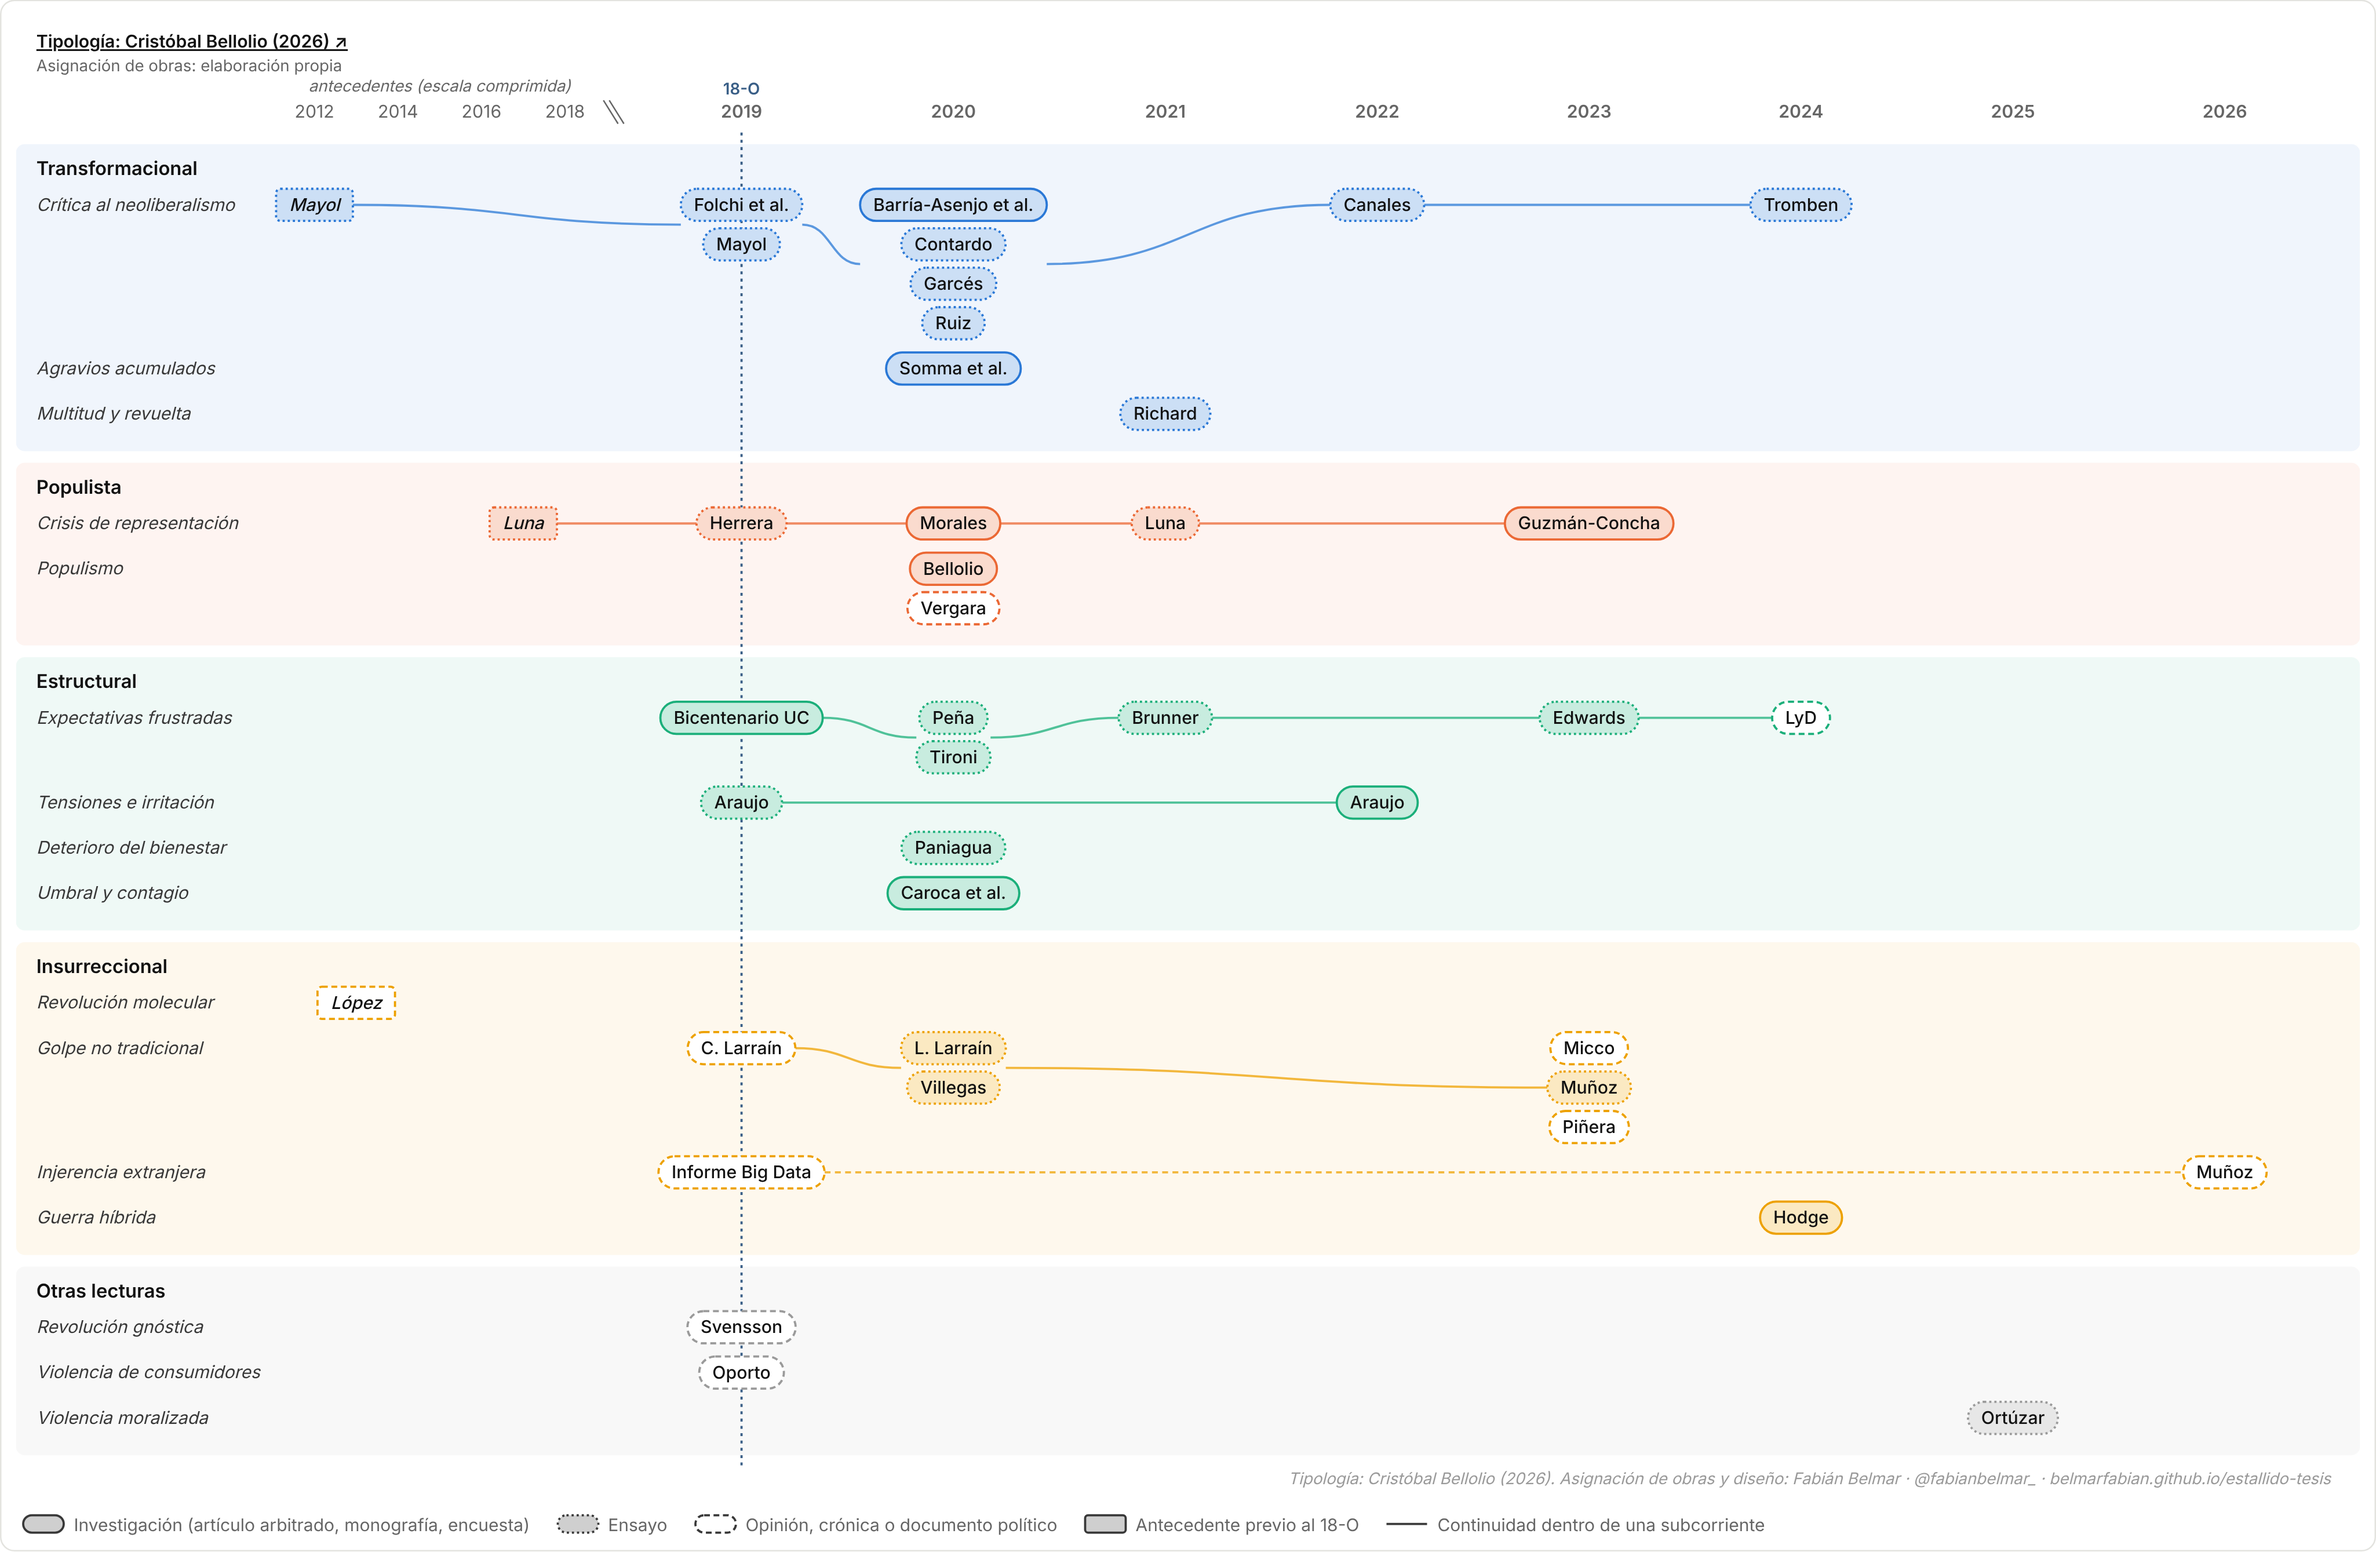
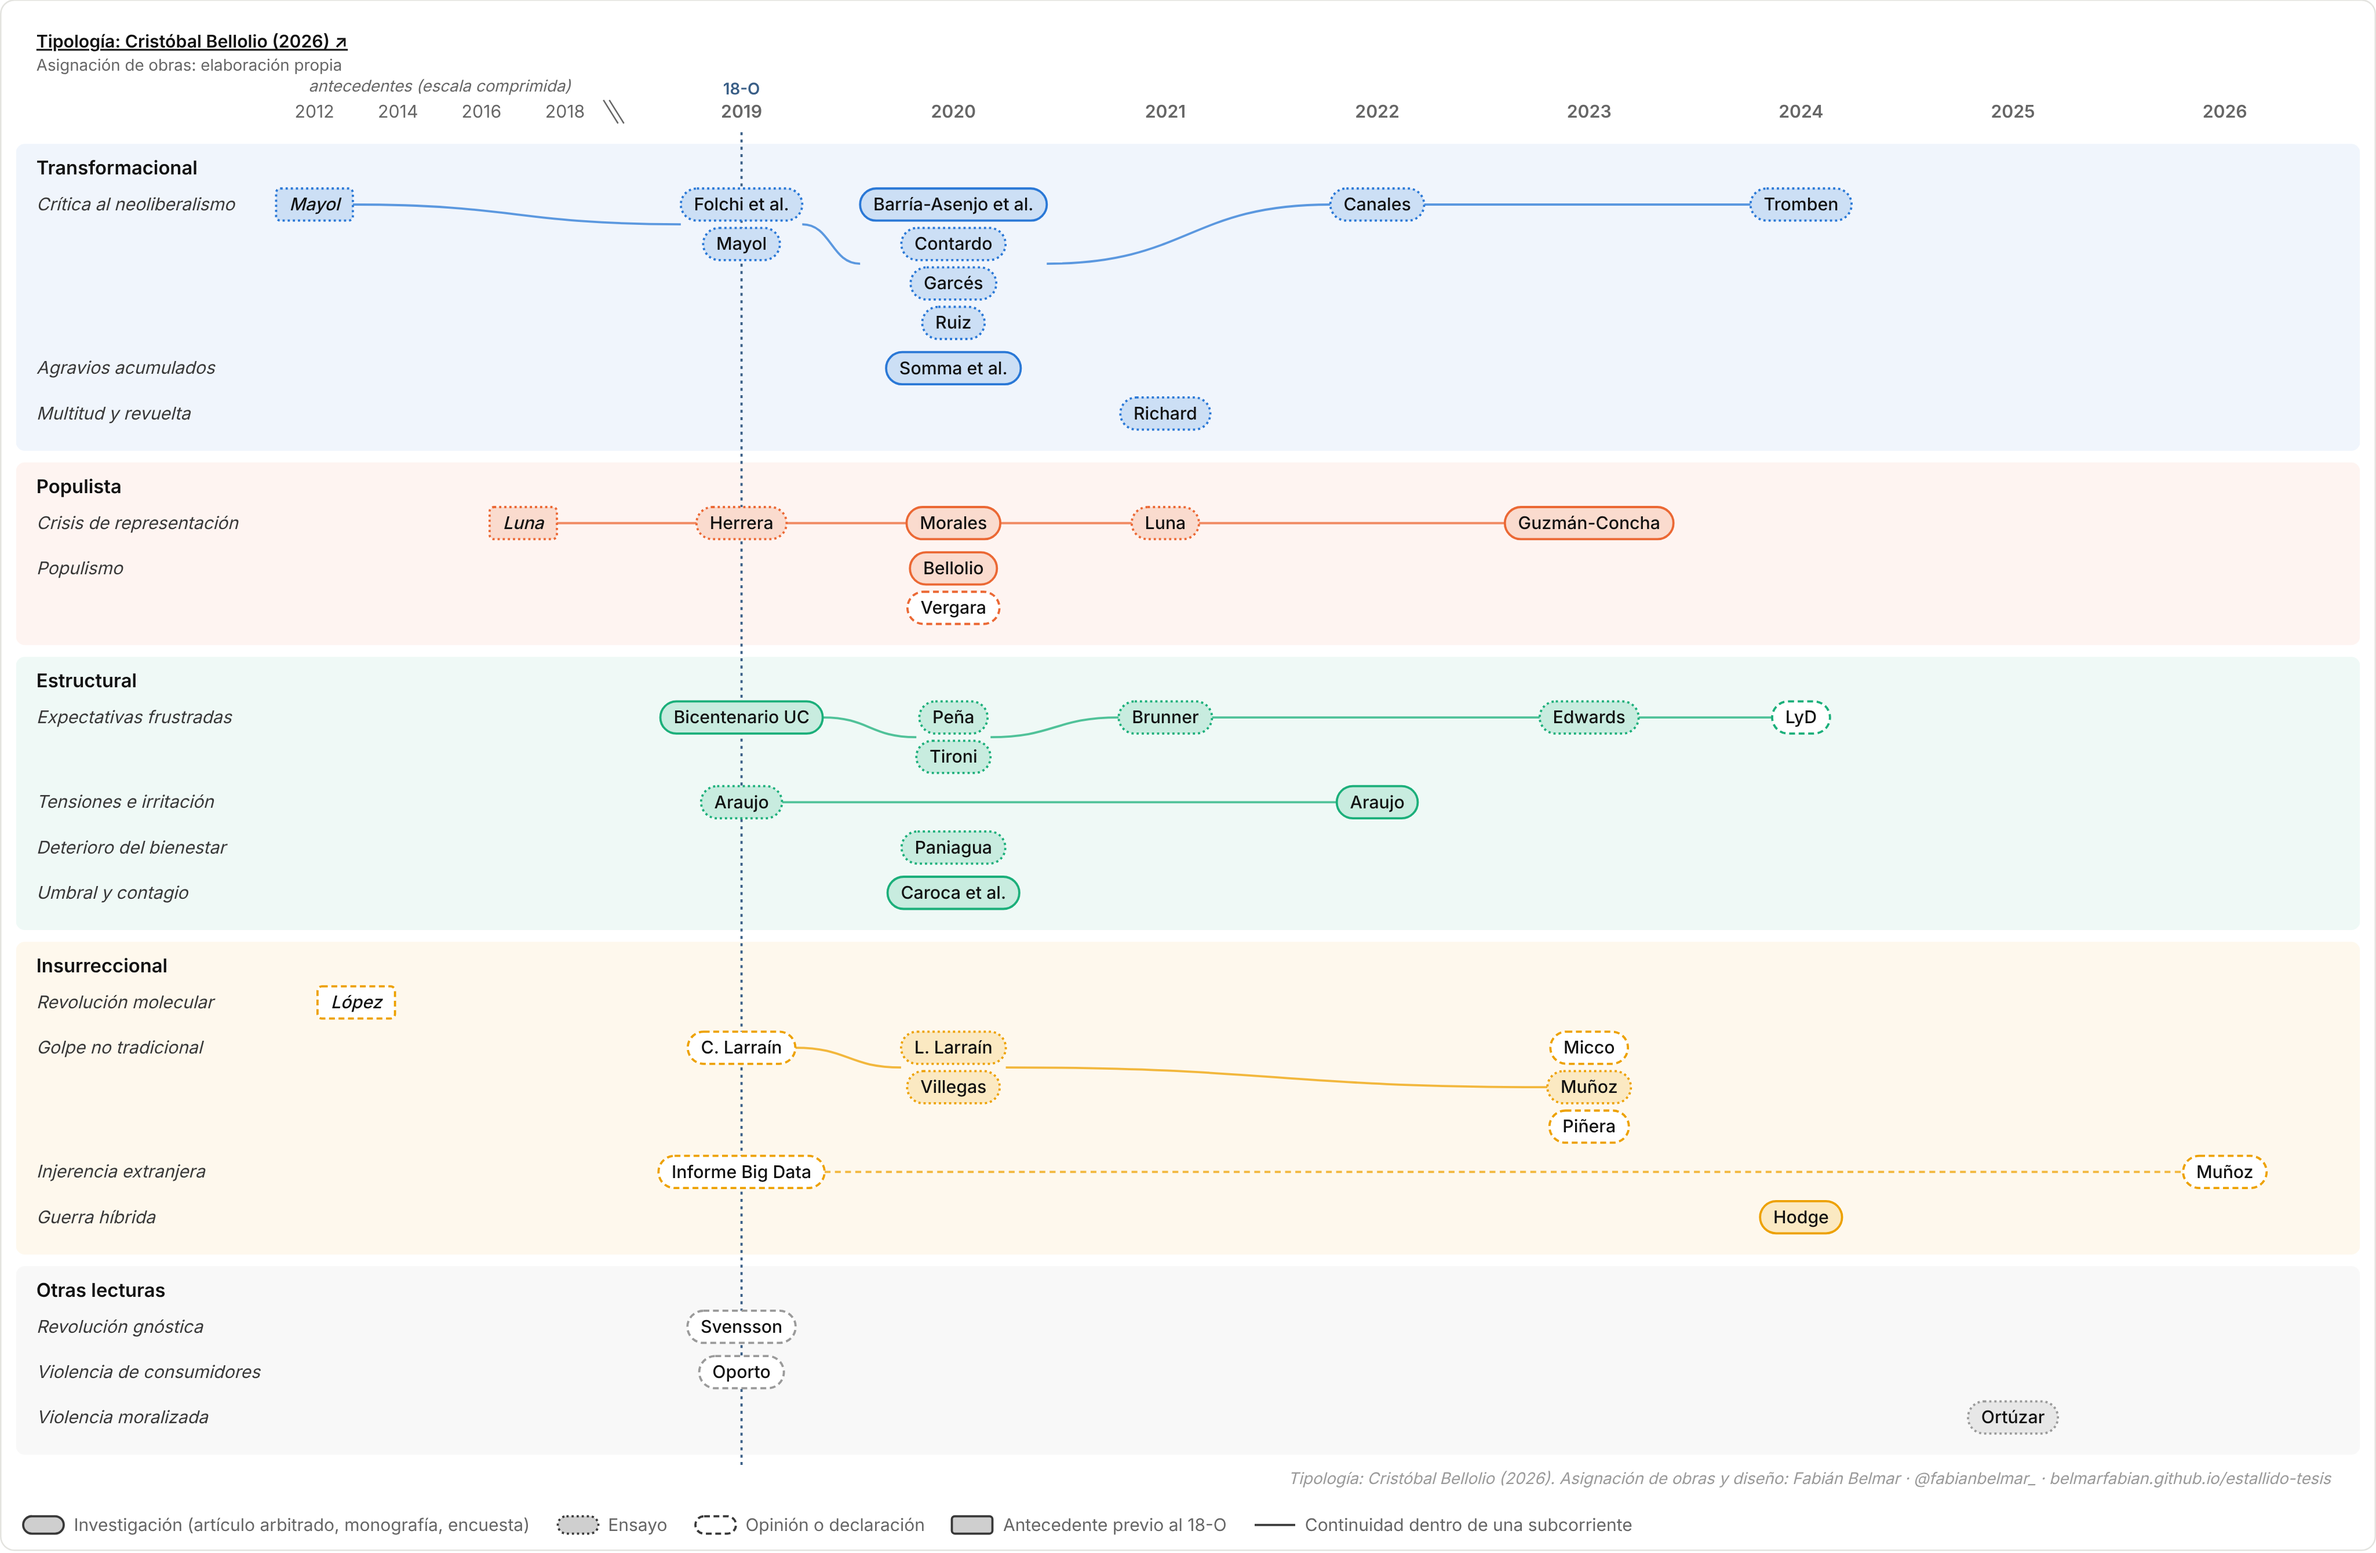
Tercera categoría de registro: «Opinión o declaración»
Claude-Session: https://claude.ai/code/session_01AycMZX7PjrihgT7aE5Rdm5

diff --git a/estallido-tesis/app.js b/estallido-tesis/app.js
@@ -95,7 +95,7 @@
     var cnt = function (r) { return v.filter(function (d) { return d.registro === r; }).length; };
     var authors = new Set(v.map(function (d) { return d.autores; }));
     document.getElementById("stats").textContent = v.length + " obras de " + authors.size + " autores o fuentes, " +
-      subs.size + " subcorrientes. " + cnt("investigacion") + " son investigación, " + cnt("ensayo") + " son ensayo y " + cnt("opinion") + " son opinión, crónica o documento político.";
+      subs.size + " subcorrientes. " + cnt("investigacion") + " son investigación, " + cnt("ensayo") + " son ensayo y " + cnt("opinion") + " son opinión o declaración.";
   }
 
   function renderCaption() {
@@ -112,7 +112,7 @@
     document.getElementById("legend").innerHTML =
       '<span><svg width="30" height="14"><rect x="1" y="1" width="28" height="12" rx="6" fill="' + ink + '" fill-opacity=".24" stroke="' + ink + '" stroke-width="1.5"/></svg>Investigación (artículo arbitrado, monografía, encuesta)</span>' +
       '<span><svg width="30" height="14"><rect x="1" y="1" width="28" height="12" rx="6" fill="' + ink + '" fill-opacity=".24" stroke="' + ink + '" stroke-dasharray="1.5 2" stroke-width="1.5"/></svg>Ensayo</span>' +
-      '<span><svg width="30" height="14"><rect x="1" y="1" width="28" height="12" rx="6" fill="' + bg + '" stroke="' + ink + '" stroke-dasharray="4 2.5" stroke-width="1.5"/></svg>Opinión, crónica o documento político</span>' +
+      '<span><svg width="30" height="14"><rect x="1" y="1" width="28" height="12" rx="6" fill="' + bg + '" stroke="' + ink + '" stroke-dasharray="4 2.5" stroke-width="1.5"/></svg>Opinión o declaración</span>' +
       '<span><svg width="30" height="14"><rect x="1" y="1" width="28" height="12" rx="2" fill="' + ink + '" fill-opacity=".24" stroke="' + ink + '" stroke-width="1.5"/></svg>Antecedente previo al 18-O</span>' +
       (state.scheme === "emergente"
         ? '<span><svg width="30" height="14" opacity=".5"><rect x="1" y="1" width="28" height="12" rx="6" fill="' + ink + '" fill-opacity=".24" stroke="' + ink + '" stroke-width="1.5"/></svg>Mecanismo secundario de la obra</span>'
@@ -317,7 +317,7 @@
   function select(d, n) {
     state.sel = d.id;
     d3.selectAll("#map g.node").classed("sel", function (n) { return n.d.id === d.id; });
-    var reg = { investigacion: "Investigación", ensayo: "Ensayo", opinion: "Opinión, crónica o documento político" }[d.registro];
+    var reg = { investigacion: "Investigación", ensayo: "Ensayo", opinion: "Opinión o declaración" }[d.registro];
     var rol = d.rol === "antecedente" ? " · Antecedente previo al 18-O" : "";
     var here = n && n.code ? "<div>Esta fila: " + esc(CODE[n.code].mecanismo) + (n.secondary ? " (mecanismo secundario)" : " (mecanismo principal)") + "</div>" : "";
     document.getElementById("detail").innerHTML =
@@ -376,7 +376,7 @@
     document.getElementById("legend2").innerHTML =
       '<span><svg width="30" height="14"><rect x="1" y="1" width="28" height="12" rx="2" fill="' + ink + '" stroke="' + ink + '" stroke-width="1.5"/></svg>Investigación</span>' +
       '<span><svg width="30" height="14"><rect x="1" y="1" width="28" height="12" rx="2" fill="' + ink + '" fill-opacity=".4" stroke="' + ink + '" stroke-width="1.5"/></svg>Ensayo</span>' +
-      '<span><svg width="30" height="14"><rect x="1" y="1" width="28" height="12" rx="2" fill="' + bg + '" stroke="' + ink + '" stroke-dasharray="4 2.5" stroke-width="1.5"/></svg>Opinión, crónica o documento político</span>';
+      '<span><svg width="30" height="14"><rect x="1" y="1" width="28" height="12" rx="2" fill="' + bg + '" stroke="' + ink + '" stroke-dasharray="4 2.5" stroke-width="1.5"/></svg>Opinión o declaración</span>';
   }
 
   function renderTable() {

diff --git a/estallido-tesis/index.html b/estallido-tesis/index.html
@@ -147,7 +147,7 @@ td:nth-child(2){white-space:nowrap}
       <option value="todos">Todos los registros</option>
       <option value="investigacion">Solo investigación</option>
       <option value="ensayo">Solo ensayo</option>
-      <option value="opinion">Solo opinión, crónica o documento político</option>
+      <option value="opinion">Solo opinión o declaración</option>
     </select>
     <label class="cb"><input type="checkbox" id="ant" checked> Antecedentes previos a 2019</label>
   </div>
